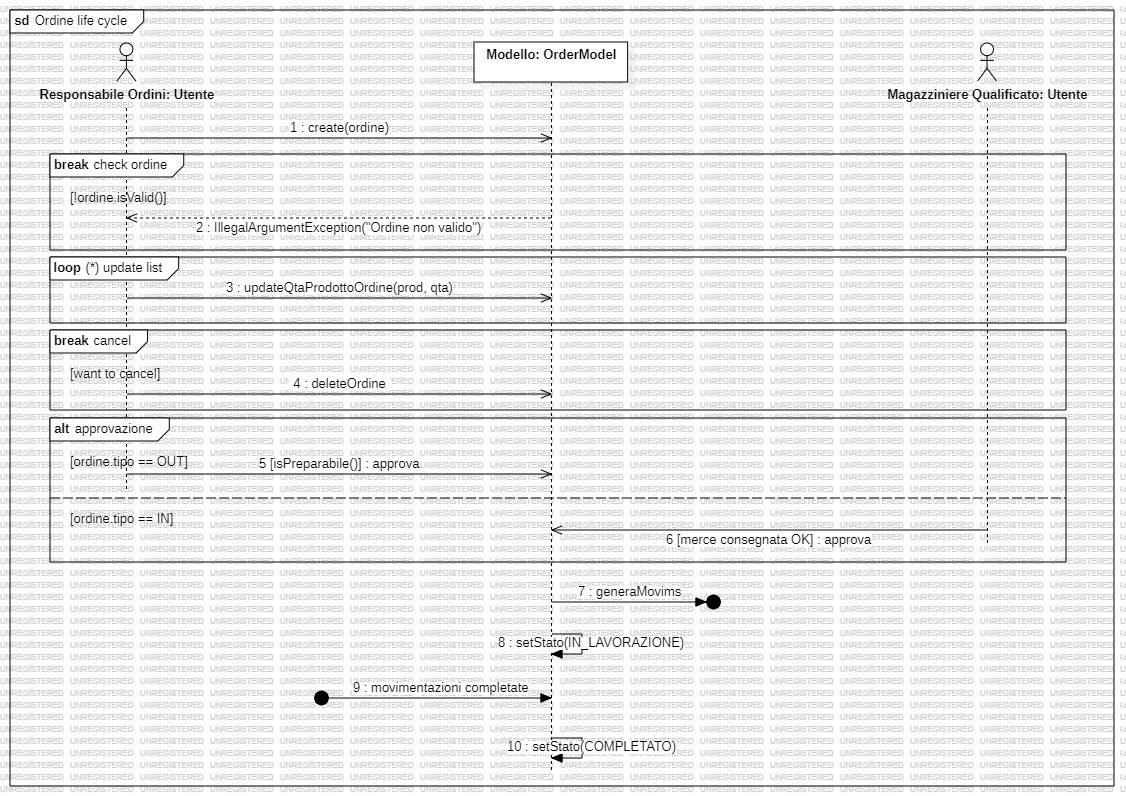
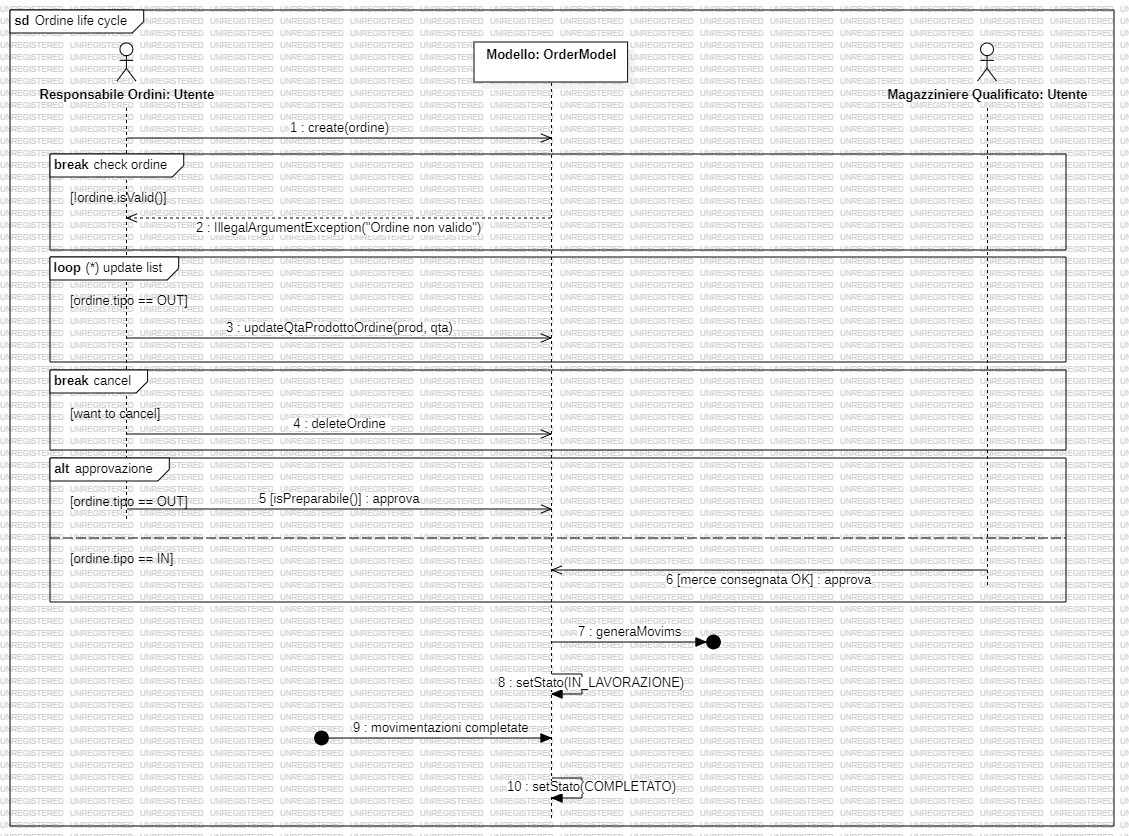
Add sequence diagram

diff --git a/docs/Modelling.md b/docs/Modelling.md
@@ -51,4 +51,10 @@ All'interno dello stato "senza movimentazione assegnata", il magazziniere si spo
 
 Dopo aver completato queste azioni, il magazziniere ritorna allo stato "senza movimentazione assegnata" per continuare con le sue attività.
 
- 
+### Sequence Diagram
+
+Col *diagramma di sequenza* siamo andati a modellare la sequenza di interazioni tra il *Responsabile Ordini*, *Magazziniere Qualificato* e il *Modello degli Ordini* volte alla creazione e gestione degli ordini.
+
+![sequence diagram](./UML/SequenceDiag%20-%20Ordini.jpg)
+
+Principalmente si denota ovviamente il ruolo principale del *Responsabile Ordini* nella gestione degli ordini. In particolare, una volta creato e prima di essere approvato, un ordine può essere cancellato o eventualmente modificato più volte solo se si tratta di un ordine in uscita. Un ordine poi può essere approvato: se si tratta di un rifornimento (`IN`) deve essere approvato da un *Magazziniere Qualificato* alla consegna delle merci ordinate, se invece si tratta di un ordine commissionato (`OUT`) deve essere approvato dal *Responsabile Ordini* e in questo caso il sistema si assicura che sia preparabile controllando le disponibilità. All'approvazione, il modello genera le movimentazioni, cambia lo stato dell'ordine e, una volta completate tutte le movimentazioni, lo contrassegna come completato.
